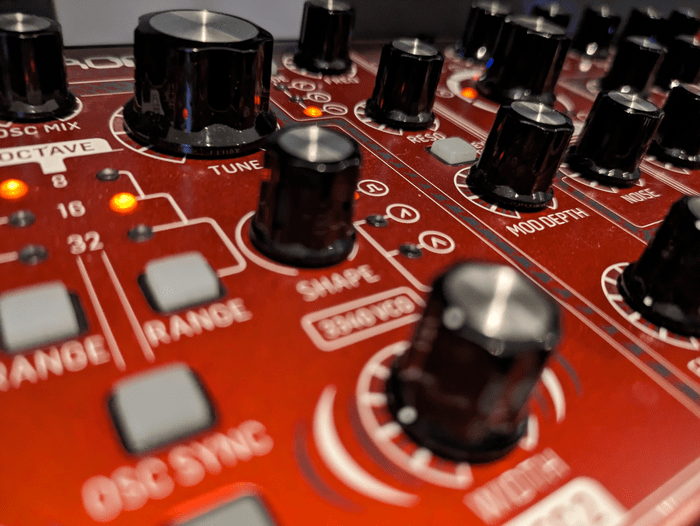
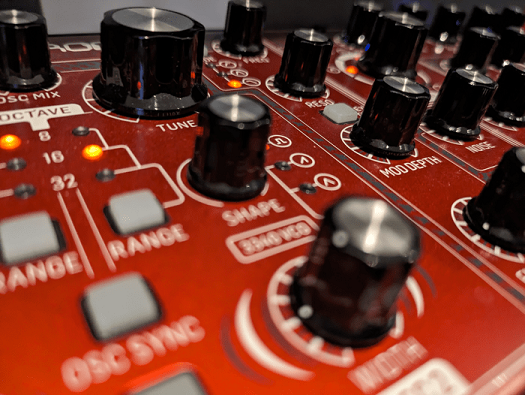
thumbnail shrink

diff --git a/content/portfolio/medea.md b/content/portfolio/medea.md
@@ -2,7 +2,7 @@
 title: "Medea | Lighting Design"
 date: 2024-01-01T16:01:26+01:00
 summary: "Oxford Playhouse"
-image: "img/portfolio/medea/DSCF4276.JPG"
+image: "img/portfolio/medea/medea-thumb.JPG"
 draft: false
 tags:
 - Theatre
